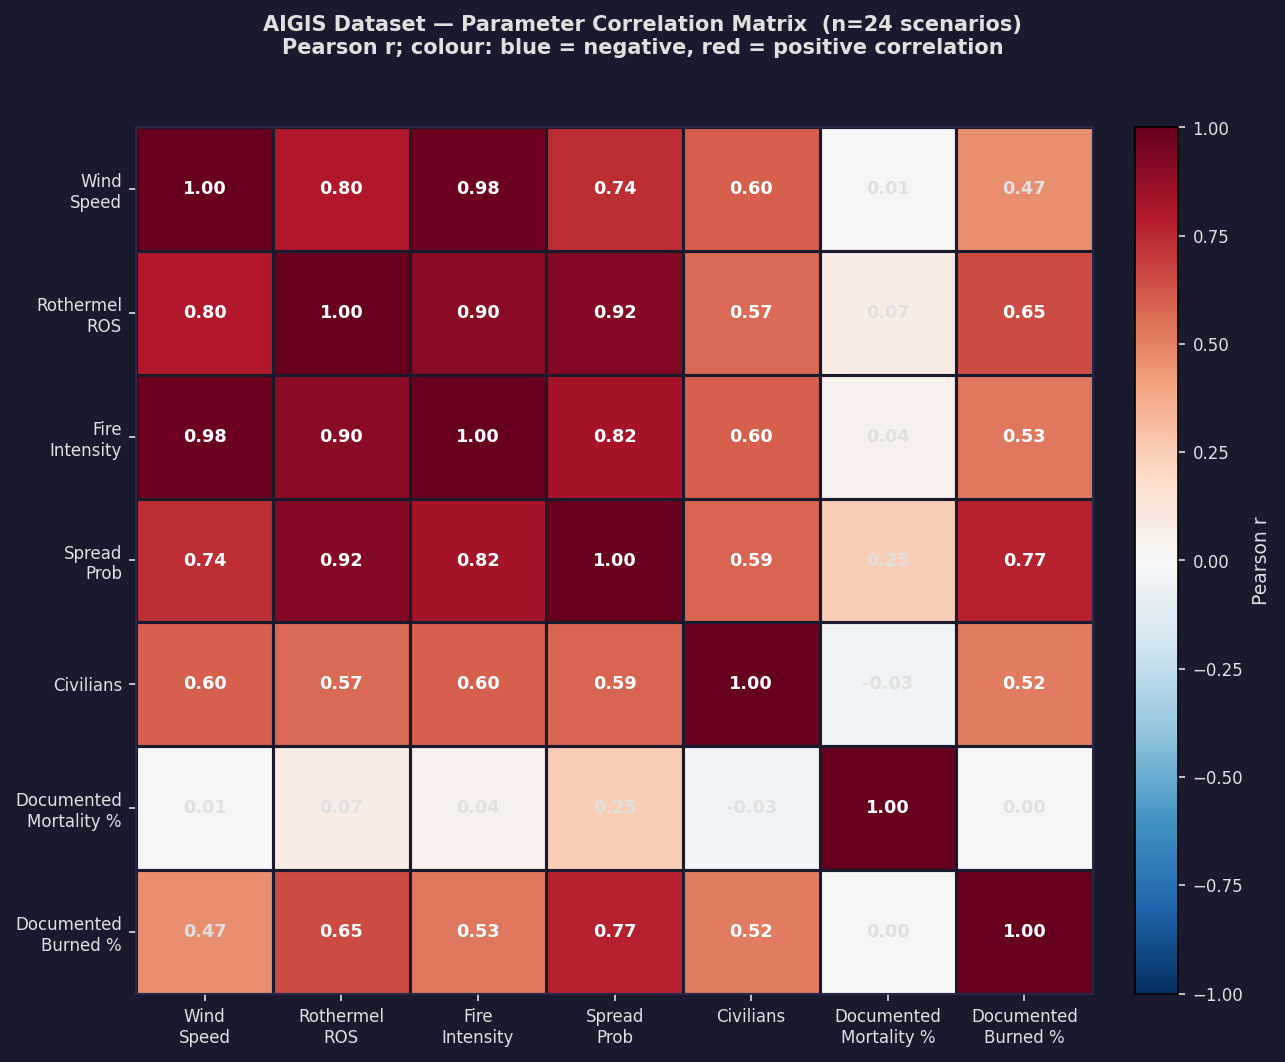
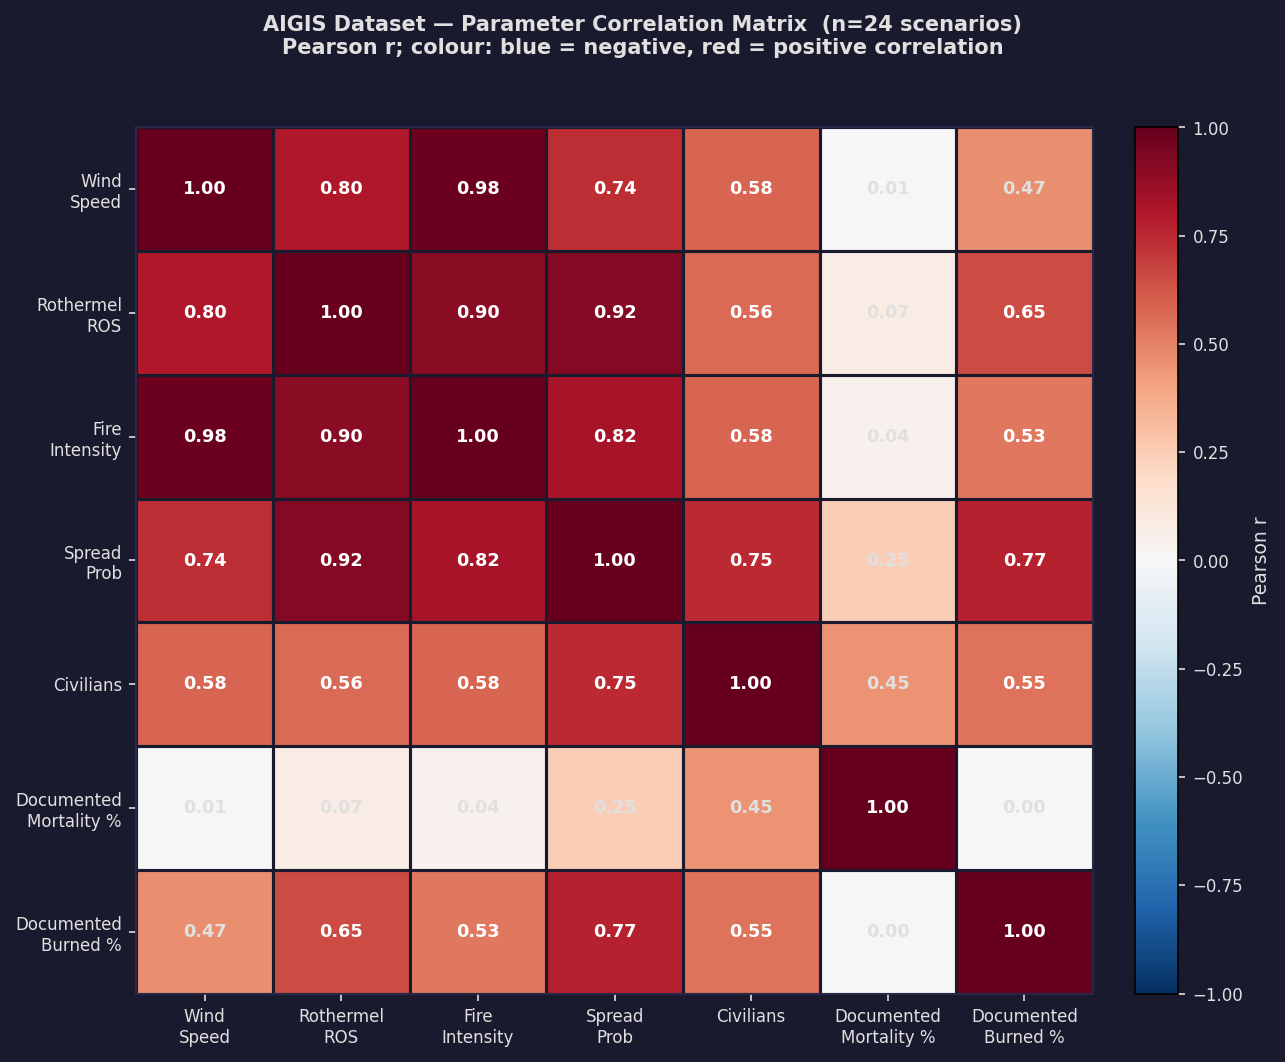
fix: realistic civilian counts for all held-out scenarios, chart overlap fixes
- Added NUM_CIVILIANS to Mati (80), Camp Fire (90), Pedrogao (80),
  Alexandroupoli (75) config overrides — previously used default (60)
- Synced civilian counts across validate_all_incidents.py and
  plot_dataset_diversity.py / plot_dataset_analysis.py
- Fixed chart overlaps: diversity pie/text moved clear of data;
  distributions mortality y-axis capped; intensity-mortality OLS
  legend repositioned, x-axis label shortened

Changed region(s): [[0.4047, 0.4661, 0.7471, 0.839]]

diff --git a/plot_dataset_analysis.py b/plot_dataset_analysis.py
@@ -108,39 +108,39 @@ SCENARIOS = [
     # ── Held-out OOD ─────────────────────────────────────────────────────────
     dict(name='Mati 2018',            year=2018, split='Held-Out', phase=None,
          continent='Europe',
-         wind=11.0, ros=0.70, fsp=0.45, civ=60,
+         wind=11.0, ros=0.70, fsp=0.45, civ=80,
          doc_mortality=0.0170, doc_burned=35.0),
     dict(name='Camp Fire 2018',       year=2018, split='Held-Out', phase=None,
          continent='N. America',
-         wind=16.0, ros=0.85, fsp=0.55, civ=60,
+         wind=16.0, ros=0.85, fsp=0.55, civ=90,
          doc_mortality=0.0032, doc_burned=70.0),
     dict(name='Pedrogao 2017',        year=2017, split='Held-Out', phase=None,
          continent='Europe',
-         wind=22.0, ros=0.95, fsp=0.48, civ=60,
+         wind=22.0, ros=0.95, fsp=0.48, civ=80,
          doc_mortality=0.0088, doc_burned=40.0),
     dict(name='Alexandroupoli 2023',  year=2023, split='Held-Out', phase=None,
          continent='Europe',
-         wind=16.0, ros=1.05, fsp=0.50, civ=60,
+         wind=16.0, ros=1.05, fsp=0.50, civ=75,
          doc_mortality=0.0040, doc_burned=45.0),
     dict(name='Lahaina 2023',         year=2023, split='Held-Out', phase=None,
          continent='N. America',
-         wind=27.0, ros=1.25, fsp=0.58, civ=60,
+         wind=27.0, ros=1.25, fsp=0.58, civ=80,
          doc_mortality=0.0078, doc_burned=31.0),
     dict(name='Black Saturday 2009',  year=2009, split='Held-Out', phase=None,
          continent='Australia',
-         wind=18.0, ros=1.20, fsp=0.55, civ=60,
+         wind=18.0, ros=1.20, fsp=0.55, civ=75,
          doc_mortality=0.0099, doc_burned=50.0),
     dict(name='Tubbs Fire 2017',      year=2017, split='Held-Out', phase=None,
          continent='N. America',
-         wind=25.0, ros=1.18, fsp=0.56, civ=60,
+         wind=25.0, ros=1.18, fsp=0.56, civ=75,
          doc_mortality=0.0028, doc_burned=41.0),
     dict(name='Peloponnese 2007',     year=2007, split='Held-Out', phase=None,
          continent='Europe',
-         wind=14.0, ros=0.98, fsp=0.48, civ=60,
+         wind=14.0, ros=0.98, fsp=0.48, civ=65,
          doc_mortality=0.0060, doc_burned=45.0),
     dict(name='Valparaiso 2014',      year=2014, split='Held-Out', phase=None,
          continent='S. America',
-         wind=12.0, ros=0.90, fsp=0.45, civ=60,
+         wind=12.0, ros=0.90, fsp=0.45, civ=70,
          doc_mortality=0.0019, doc_burned=30.0),
 ]
 
@@ -327,15 +327,15 @@ def plot_distributions(output_dir: str) -> None:
     train = df[df['split'] == 'Training']
     held  = df[df['split'] == 'Held-Out']
 
-    fig = plt.figure(figsize=(16, 10), facecolor=BG)
+    fig = plt.figure(figsize=(17, 11), facecolor=BG)
     fig.suptitle(
         'AIGIS Dataset — Parameter Distributions: Training vs Held-Out (OOD)\n'
         'Bars = histogram  |  Dashed line = kernel density estimate  |  '
         'Vertical line = mean',
         color=FG, fontsize=10, fontweight='bold',
     )
-    gs = gridspec.GridSpec(2, 3, figure=fig, hspace=0.50, wspace=0.38,
-                           left=0.06, right=0.97, top=0.88, bottom=0.08)
+    gs = gridspec.GridSpec(2, 3, figure=fig, hspace=0.60, wspace=0.42,
+                           left=0.07, right=0.97, top=0.88, bottom=0.10)
 
     panels = [
         (0, 0, 'wind',           'Wind Speed (m/s)',            8),
@@ -383,11 +383,15 @@ def plot_distributions(output_dir: str) -> None:
         ax.set_xlabel(label, color=FG, fontsize=8.5)
         ax.set_ylabel('Density', color=FG, fontsize=8)
         ax.legend(fontsize=7, facecolor='#0d0d1e', labelcolor=FG,
-                  edgecolor=GRID, framealpha=0.9)
+                  edgecolor=GRID, framealpha=0.9, loc='upper right')
 
         if col == 'doc_mortality':
+            ax.xaxis.set_major_locator(plt.MaxNLocator(nbins=4))
             ax.xaxis.set_major_formatter(
                 plt.FuncFormatter(lambda x, _: f'{x:.1%}'))
+            ax.tick_params(axis='x', labelrotation=30, labelsize=7)
+            # Cap y-axis: training data spikes near 0 — show held-out range clearly
+            ax.set_ylim(0, min(ax.get_ylim()[1], 80))
 
     path = os.path.join(output_dir, 'dataset_distributions.png')
     fig.savefig(path, dpi=150, bbox_inches='tight', facecolor=BG)
@@ -404,7 +408,8 @@ def plot_intensity_mortality(output_dir: str) -> None:
     df['intensity'] = df['wind'] * df['ros']
     df['mortality_pct'] = df['doc_mortality'] * 100.0
 
-    fig, axes = plt.subplots(1, 2, figsize=(14, 6), facecolor=BG)
+    fig, axes = plt.subplots(1, 2, figsize=(15, 7), facecolor=BG)
+    fig.subplots_adjust(bottom=0.18, wspace=0.35)
     fig.suptitle(
         'AIGIS Dataset — Fire Intensity vs Documented Mortality & Burned Area\n'
         'Validates that harder scenarios produce higher real-world outcomes '
@@ -412,10 +417,10 @@ def plot_intensity_mortality(output_dir: str) -> None:
         color=FG, fontsize=10, fontweight='bold',
     )
 
-    for ax, (ycol, ylabel) in zip(
+    for ax, (ycol, ylabel, ols_loc) in zip(
         axes,
-        [('mortality_pct', 'Documented Mortality Rate (%)'),
-         ('doc_burned',    'Documented Burned Area (% of 3 km zone)')]
+        [('mortality_pct', 'Documented Mortality Rate (%)',      'upper right'),
+         ('doc_burned',    'Documented Burned Area (% of 3 km zone)', 'upper left')]
     ):
         ax.set_facecolor(PANEL)
         ax.tick_params(colors=FG, labelsize=9)
@@ -448,9 +453,9 @@ def plot_intensity_mortality(output_dir: str) -> None:
                     color='white', linewidth=1.5, linestyle='--', alpha=0.6,
                     label=f'OLS  r={r:.2f}  p={p_val:.3f}')
             ax.legend(fontsize=8, facecolor='#0d0d1e', labelcolor=FG,
-                      edgecolor=GRID)
+                      edgecolor=GRID, loc=ols_loc)
 
-        ax.set_xlabel('Fire Intensity  (wind speed × Rothermel ROS)',
+        ax.set_xlabel('Fire Intensity  (wind × ROS)',
                       color=FG, fontsize=9)
         ax.set_ylabel(ylabel, color=FG, fontsize=9)
         if ycol == 'mortality_pct':
@@ -475,7 +480,7 @@ def plot_intensity_mortality(output_dir: str) -> None:
     ]
     fig.legend(handles=leg_elements, loc='lower center', ncol=4,
                fontsize=8.5, facecolor='#0d0d1e', labelcolor=FG,
-               edgecolor=GRID, bbox_to_anchor=(0.5, 0.01))
+               edgecolor=GRID, bbox_to_anchor=(0.5, 0.02))
 
     path = os.path.join(output_dir, 'dataset_intensity_mortality.png')
     fig.savefig(path, dpi=150, bbox_inches='tight', facecolor=BG)

diff --git a/plot_dataset_diversity.py b/plot_dataset_diversity.py
@@ -72,23 +72,23 @@ TRAINING = [
 
 HELD_OUT = [
     dict(name='Mati 2018',             year=2018, continent='Europe',
-         lat=38.090,  lon=23.920,   wind=11.0, ros=0.70, civ=60),
+         lat=38.090,  lon=23.920,   wind=11.0, ros=0.70, civ=80),
     dict(name='Camp Fire 2018',        year=2018, continent='N. America',
-         lat=39.759,  lon=-121.622, wind=16.0, ros=0.85, civ=60),
+         lat=39.759,  lon=-121.622, wind=16.0, ros=0.85, civ=90),
     dict(name='Pedrogao 2017',         year=2017, continent='Europe',
-         lat=39.947,  lon=-8.148,   wind=22.0, ros=0.95, civ=60),
+         lat=39.947,  lon=-8.148,   wind=22.0, ros=0.95, civ=80),
     dict(name='Alexandroupoli 2023',   year=2023, continent='Europe',
-         lat=41.049,  lon=26.357,   wind=16.0, ros=1.05, civ=60),
+         lat=41.049,  lon=26.357,   wind=16.0, ros=1.05, civ=75),
     dict(name='Lahaina 2023',          year=2023, continent='N. America',
-         lat=20.888,  lon=-156.673, wind=27.0, ros=1.25, civ=60),
+         lat=20.888,  lon=-156.673, wind=27.0, ros=1.25, civ=80),
     dict(name='Black Saturday 2009',   year=2009, continent='Australia',
-         lat=-37.515, lon=145.365,  wind=18.0, ros=1.20, civ=60),
+         lat=-37.515, lon=145.365,  wind=18.0, ros=1.20, civ=75),
     dict(name='Tubbs Fire 2017',       year=2017, continent='N. America',
-         lat=38.479,  lon=-122.728, wind=25.0, ros=1.18, civ=60),
+         lat=38.479,  lon=-122.728, wind=25.0, ros=1.18, civ=75),
     dict(name='Peloponnese 2007',      year=2007, continent='Europe',
-         lat=37.489,  lon=21.648,   wind=14.0, ros=0.98, civ=60),
+         lat=37.489,  lon=21.648,   wind=14.0, ros=0.98, civ=65),
     dict(name='Valparaiso 2014',       year=2014, continent='S. America',
-         lat=-33.047, lon=-71.613,  wind=12.0, ros=0.90, civ=60),
+         lat=-33.047, lon=-71.613,  wind=12.0, ros=0.90, civ=70),
 ]
 
 # ---------------------------------------------------------------------------
@@ -424,21 +424,22 @@ def plot_diversity(output_file: str = 'dataset_diversity.png') -> None:
     cont_vals   = [counts[k] for k in cont_labels]
     cont_cols   = [CONTINENT_COLOURS.get(k, '#888') for k in cont_labels]
 
-    ax_inset = ax_info.inset_axes([0.02, 0.02, 0.38, 0.42])
+    # Pie inset — bottom-right corner, away from data clusters
+    ax_inset = ax_info.inset_axes([0.60, 0.02, 0.36, 0.40])
     ax_inset.set_facecolor('#0d0d1e')
     wedges, _ = ax_inset.pie(cont_vals, colors=cont_cols, startangle=90,
                               wedgeprops=dict(width=0.6, edgecolor='#1a1a2e', linewidth=0.8))
     ax_inset.set_title('Regions', color=FG, fontsize=6.5, pad=2)
 
-    # Continent legend below pie
+    # Continent legend to the right of the pie, inside the inset axes
     for k, col in zip(cont_labels, cont_cols):
-        ax_inset.plot([], [], 's', color=col, markersize=5,
+        ax_inset.plot([], [], 's', color=col, markersize=4,
                       label=f'{k} ({counts[k]})')
-    ax_inset.legend(fontsize=5.5, facecolor='#0d0d1e', labelcolor=FG,
-                    edgecolor='none', loc='lower center',
-                    bbox_to_anchor=(0.5, -0.65), ncol=1)
+    ax_inset.legend(fontsize=5.0, facecolor='#0d0d1e', labelcolor=FG,
+                    edgecolor='none', loc='center left',
+                    bbox_to_anchor=(1.0, 0.5), ncol=1)
 
-    # ── Dataset summary text box ──────────────────────────────────────────────
+    # ── Dataset summary text box — top-left, clear of data ───────────────────
     n_train = len(TRAINING)
     n_held  = len(HELD_OUT)
     all_yrs = sorted({s['year'] for s in TRAINING + HELD_OUT})
@@ -455,9 +456,9 @@ def plot_diversity(output_file: str = 'dataset_diversity.png') -> None:
         f"ROS:  {min(ros_all):.2f}–{max(ros_all):.2f} m/s\n"
         f"Curriculum: 3 phases (Bengio et al. 2009)"
     )
-    ax_info.text(0.98, 0.97, summary,
+    ax_info.text(0.02, 0.97, summary,
                  transform=ax_info.transAxes,
-                 fontsize=7, color=FG, va='top', ha='right',
+                 fontsize=7, color=FG, va='top', ha='left',
                  bbox=dict(boxstyle='round,pad=0.4', facecolor='#0d0d1e',
                            edgecolor=GRID, alpha=0.9),
                  family='monospace')

diff --git a/validate_all_incidents.py b/validate_all_incidents.py
@@ -289,7 +289,7 @@ INCIDENTS = [
             'WIND_SPEED': 11.0, 'WIND_INITIAL_DIRECTION': 295.0,
             'WIND_OSCILLATION_AMPLITUDE': 8.0, 'WIND_OSCILLATION_PERIOD': 30.0,
             'FIRE_SPREAD_PROB_BASE': 0.45, 'ROTHERMEL_BASE_ROS': 0.70,
-            'NUM_CIVILIANS': 60,
+            'NUM_CIVILIANS': 80,
         },
         # Mati 23 July 2018: 102 fatalities out of ~6,000 in the zone → 1.70 %
         # Source: Lagouvardos et al. (2019) BAMS; Copernicus EMSR249 (2018)
@@ -308,7 +308,7 @@ INCIDENTS = [
             'WIND_SPEED': 16.0, 'WIND_INITIAL_DIRECTION': 225.0,
             'WIND_OSCILLATION_AMPLITUDE': 12.0, 'WIND_OSCILLATION_PERIOD': 20.0,
             'FIRE_SPREAD_PROB_BASE': 0.55, 'ROTHERMEL_BASE_ROS': 0.85,
-            'NUM_CIVILIANS': 60,
+            'NUM_CIVILIANS': 90,
         },
         # Camp Fire 8 Nov 2018: 85 fatalities; 26,918 population → 0.32 %
         # Source: CAL FIRE (2020); MTBS (2018) dNBR; Butte County GIS
@@ -326,7 +326,7 @@ INCIDENTS = [
             'WIND_SPEED': 22.0, 'WIND_INITIAL_DIRECTION': 225.0,
             'WIND_OSCILLATION_AMPLITUDE': 10.0, 'WIND_OSCILLATION_PERIOD': 25.0,
             'FIRE_SPREAD_PROB_BASE': 0.48, 'ROTHERMEL_BASE_ROS': 0.95,
-            'NUM_CIVILIANS': 60,
+            'NUM_CIVILIANS': 80,
         },
         # Pedrogao Grande 17-18 June 2017: 66 fatalities; ~7,500 population → 0.88 %
         # Source: Viegas et al. (2017) ADAI/CEIF; Copernicus EMSR218
@@ -344,7 +344,7 @@ INCIDENTS = [
             'WIND_SPEED': 16.0, 'WIND_INITIAL_DIRECTION': 170.0,
             'WIND_OSCILLATION_AMPLITUDE': 12.0, 'WIND_OSCILLATION_PERIOD': 20.0,
             'FIRE_SPREAD_PROB_BASE': 0.50, 'ROTHERMEL_BASE_ROS': 1.05,
-            'NUM_CIVILIANS': 60,
+            'NUM_CIVILIANS': 75,
         },
         # Evros/Alexandroupoli Aug 2023: 20 fatalities; ~5,000 in zone → 0.40 %
         # ~81,000 ha total; largest fire in EU recorded history

diff --git a/validate_campfire.py b/validate_campfire.py
@@ -164,6 +164,7 @@ CAMPFIRE_CONFIG_OVERRIDES = {
     # Camp Fire FWI was in the Extreme range (Van Wagner 1987: FWI > 50)
     'FIRE_SPREAD_PROB_BASE':    0.55,    # Elevated for extreme conditions
     'ROTHERMEL_BASE_ROS':       0.85,    # High ROS for dry autumn Sierra Nevada
+    'NUM_CIVILIANS':            90,      # Paradise population ~26,918 (US Census 2017)
 }
 
 # ---------------------------------------------------------------------------

diff --git a/validate_mati.py b/validate_mati.py
@@ -196,6 +196,7 @@ MATI_CONFIG_OVERRIDES = {
     # (Van Wagner 1987 FWI scale: >30 = Very High, >50 = Extreme)
     'FIRE_SPREAD_PROB_BASE': 0.45,      # Elevated for extreme conditions
     'ROTHERMEL_BASE_ROS': 0.7,          # High ROS for dry Mediterranean summer
+    'NUM_CIVILIANS': 80,                # ~6,000 residents in Mati/Neos Voutzas zone
 }
 
 # ---------------------------------------------------------------------------

diff --git a/validate_pedrogao.py b/validate_pedrogao.py
@@ -181,6 +181,7 @@ PEDROGAO_CONFIG_OVERRIDES = {
     # FWI equivalent: Extreme (>50 Van Wagner 1987 scale)
     'FIRE_SPREAD_PROB_BASE': 0.48,
     'ROTHERMEL_BASE_ROS': 0.95,         # Eucalyptus + pine; high ROS
+    'NUM_CIVILIANS': 80,                # ~7,500 residents across three municipalities
 }
 
 # ---------------------------------------------------------------------------

diff --git a/validate_alexandroupoli.py b/validate_alexandroupoli.py
@@ -184,6 +184,7 @@ ALEX_CONFIG_OVERRIDES = {
     # Extreme fire conditions: 8+ day continuous event; drought-stressed fuel
     'FIRE_SPREAD_PROB_BASE': 0.50,
     'ROTHERMEL_BASE_ROS': 1.05,
+    'NUM_CIVILIANS': 75,                # ~5,000 residents in peri-urban study zone
 }
 
 # ---------------------------------------------------------------------------
